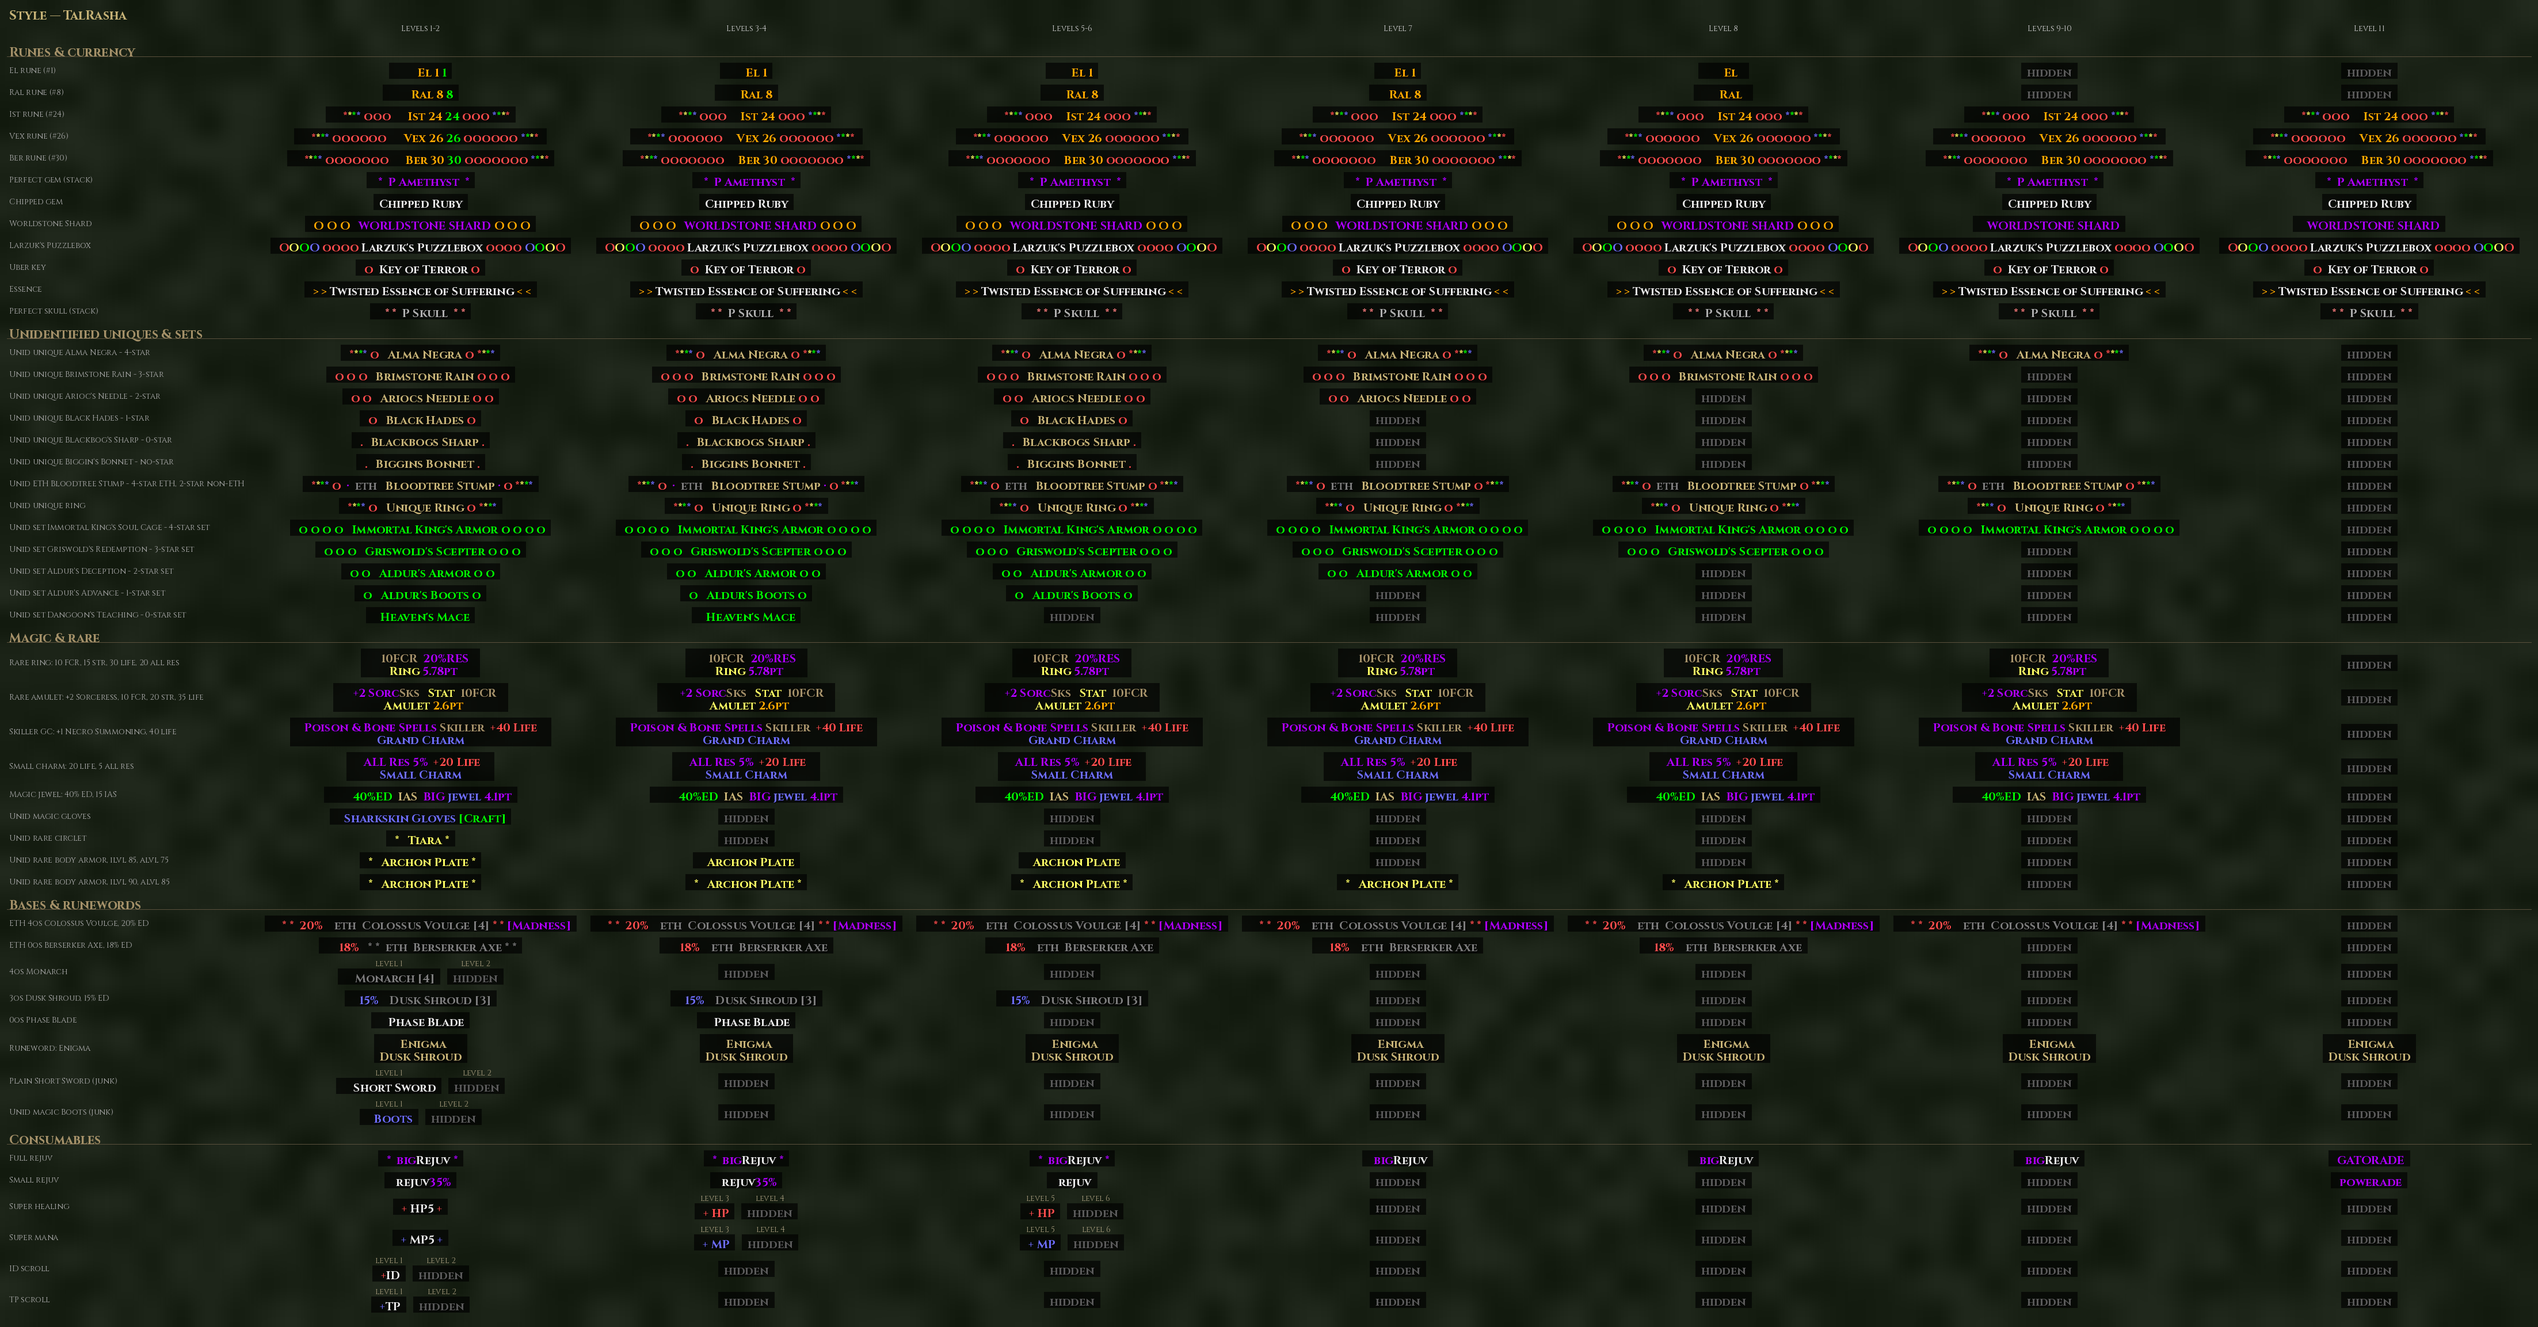
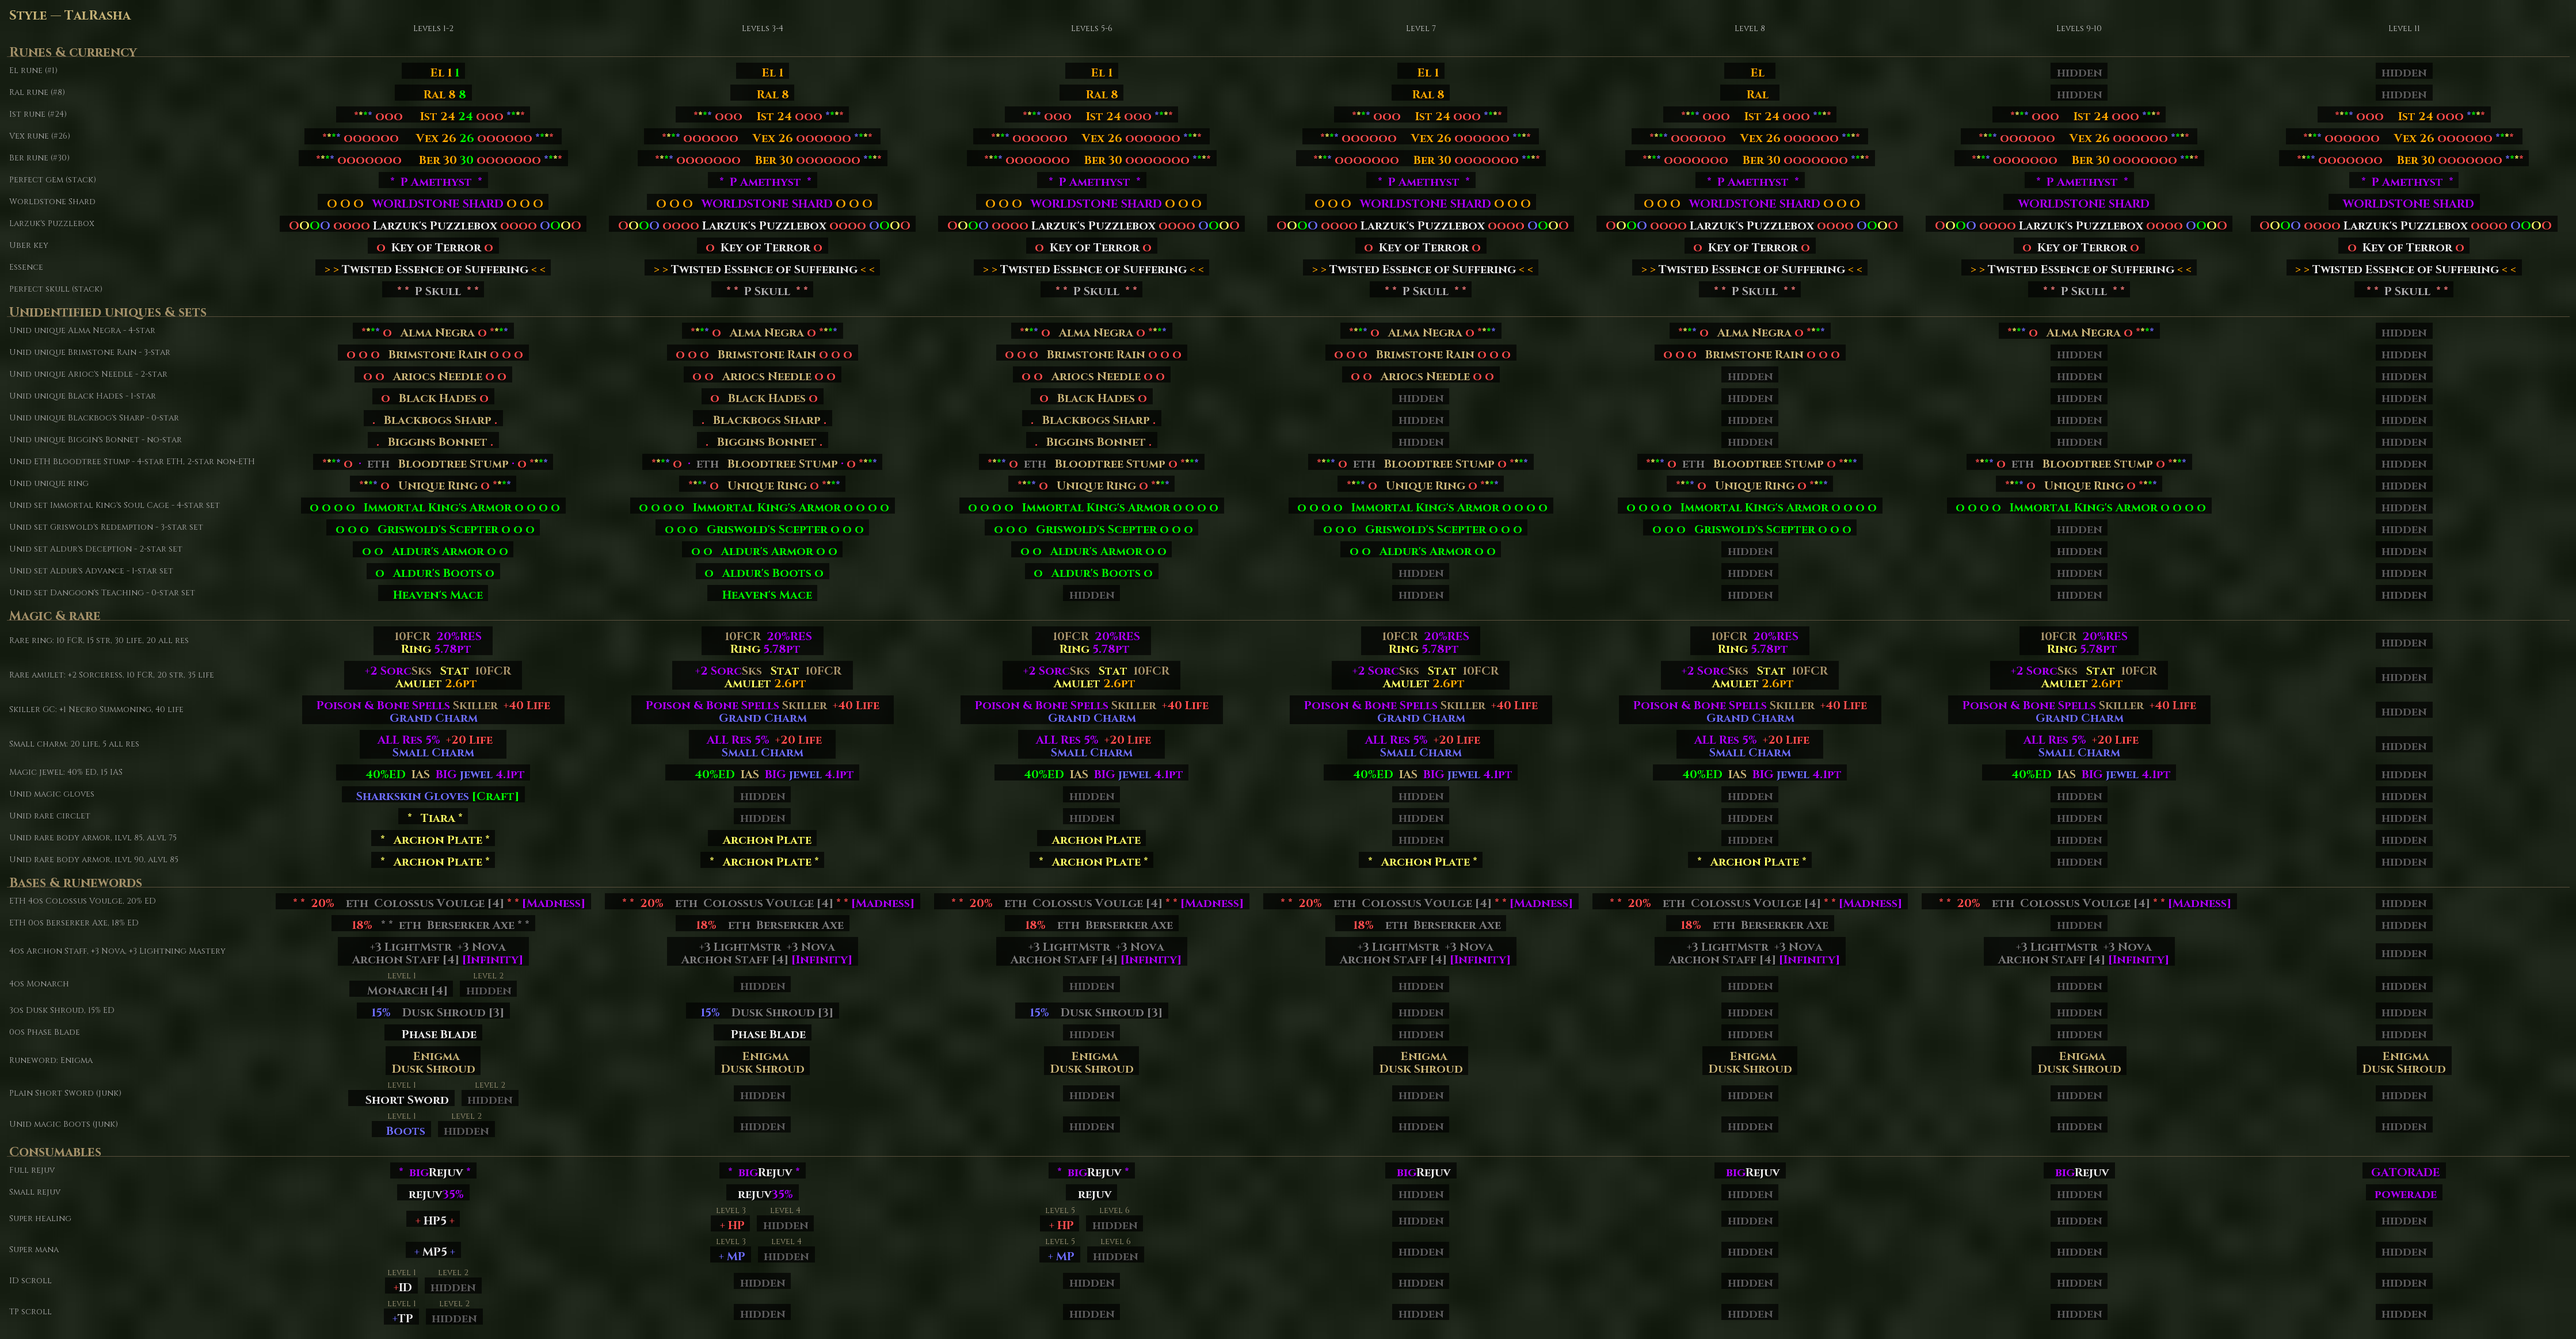
Styles page: add a Kassahi-family comparison; sample item tweaks
- render_readme_images.py renders examples/render/Kassahi_Styles.png:
  Phil777 | Kassahi | Kassahi Hyper at filter level 5, shown on
  filtergroups/HIIM_STYLES.md under "Kassahi styles".
- Samples: drop the chipped ruby; add a 4os Archon Staff with +3 Nova
  and +3 Lightning Mastery (Infinity base).

Claude-Session: https://claude.ai/code/session_01LHu8aBXB58wuLsSi44Dtuf

diff --git a/builderreadme/render_readme_images.py b/builderreadme/render_readme_images.py
@@ -4,7 +4,8 @@ One grid per general Hiim filter: the root Hiim filter plus the first (general) 
 group in PREVIEW_GROUPS. While a beta is building, the *_beta.filter is rendered since the
 release file is not rebuilt. Images go to examples/render/<release file stem>.png so README
 links stay stable. A style comparison (all four side by side at STYLES_LEVEL) goes to
-examples/render/Hiim_Styles.png for filtergroups/HIIM_STYLES.md.
+examples/render/Hiim_Styles.png for filtergroups/HIIM_STYLES.md, next to a Kassahi-family
+comparison (KASSAHI_STYLES) in examples/render/Kassahi_Styles.png.
 """
 import json
 import os
@@ -16,16 +17,25 @@ OUT_DIR = os.path.join(ROOT_DIR, "examples", "render")
 PREVIEW_GROUPS = ["hiimhyper", "hiimtalrasha", "hiimvanillaplus"]
 STYLES_LEVEL = 5
 STYLES_IMAGE = "examples/render/Hiim_Styles.png"
+# (filtergroups dir, release file, column title) for the Kassahi-family comparison
+KASSAHI_STYLES = [
+    ("phil777", "Kassahi_Phil777.filter", "Phil777"),
+    ("kassahi", "Kassahi.filter", "Kassahi"),
+    ("kassahi", "Kassahi_Hyper.filter", "Kassahi Hyper"),
+]
+KASSAHI_STYLES_IMAGE = "examples/render/Kassahi_Styles.png"
 
 sys.path.insert(0, SCRIPT_DIR)
 from filterrender.engine import Filter  # noqa: E402
 import render_examples  # noqa: E402
 
 
-def general_filter(defs_dir):
-    """(display_name, release file, path to render) for the first filter in defs_dir."""
+def general_filter(defs_dir, file_name=None):
+    """(display_name, release file, path to render) for file_name in defs_dir, by default the
+    first (general) filter listed there."""
     with open(os.path.join(defs_dir, "filter_definitions.json"), encoding="utf-8") as f:
-        entry = next(iter(json.load(f)["filter_info"].values()))
+        entries = list(json.load(f)["filter_info"].values())
+    entry = next(e for e in entries if file_name in (None, e["file_name"]))
     path = os.path.join(defs_dir, entry["file_name"])
     beta = entry.get("file_name_beta")
     if beta and os.path.exists(os.path.join(defs_dir, beta)):
@@ -55,6 +65,13 @@ def main():
     render_examples.render_styles(named, STYLES_LEVEL, os.path.join(ROOT_DIR, STYLES_IMAGE),
                                   f"Hiim styles at filter level {STYLES_LEVEL}")
     print(f"  wrote {STYLES_IMAGE}")
+    kassahi = []
+    for group, file_name, title in KASSAHI_STYLES:
+        _, _, path = general_filter(os.path.join(ROOT_DIR, "filtergroups", group), file_name)
+        kassahi.append((title, Filter(path)))
+    render_examples.render_styles(kassahi, STYLES_LEVEL, os.path.join(ROOT_DIR, KASSAHI_STYLES_IMAGE),
+                                  f"Kassahi styles at filter level {STYLES_LEVEL}")
+    print(f"  wrote {KASSAHI_STYLES_IMAGE}")
 
 
 if __name__ == "__main__":

diff --git a/builderreadme/filterrender/items.py b/builderreadme/filterrender/items.py
@@ -20,7 +20,6 @@ CATEGORIES = [
         _rune(26, "Vex"),
         _rune(30, "Ber"),
         {"code": "gpvs", "name": "Perfect Amethyst", "flags": ["NMAG"], "num": {"QTY": 1}, "legend": "Perfect gem (stack)"},
-        {"code": "gcr", "name": "Chipped Ruby", "flags": ["NMAG"], "legend": "Chipped gem"},
         {"code": "wss", "name": "Worldstone Shard", "flags": ["NMAG"], "legend": "Worldstone Shard"},
         {"code": "lbox", "name": "Larzuk's Puzzlebox", "flags": ["NMAG"], "legend": "Larzuk's Puzzlebox"},
         {"code": "pk1", "name": "Key of Terror", "flags": ["NMAG"], "legend": "Uber key"},
@@ -57,6 +56,8 @@ CATEGORIES = [
          "num": {"SOCK": 4, "EDAM": 20}, "legend": "ETH 4os Colossus Voulge, 20% ED"},
         {"code": "7wa", "name": "Berserker Axe", "flags": ["NMAG", "ETH", "WEAPON", "AXE", "ELT", "1H"],
          "num": {"SOCK": 0, "EDAM": 18}, "legend": "ETH 0os Berserker Axe, 18% ED"},
+        {"code": "6ws", "name": "Archon Staff", "flags": ["NMAG", "WEAPON", "STAFF", "ELT", "2H"],
+         "num": {"SOCK": 4, "SK48": 3, "SK63": 3}, "legend": "4os Archon Staff, +3 Nova, +3 Lightning Mastery"},
         {"code": "uit", "name": "Monarch", "flags": ["NMAG", "ARMOR", "SHIELD", "ELT"],
          "num": {"SOCK": 4}, "legend": "4os Monarch"},
         {"code": "uui", "name": "Dusk Shroud", "flags": ["NMAG", "ARMOR", "CHEST", "ELT"],

diff --git a/builderreadme/create_readme.py b/builderreadme/create_readme.py
@@ -119,6 +119,15 @@ def write_styles_page(version_str, previews):
         "",
         f"[![Hiim styles](../{renders.STYLES_IMAGE}?raw=true)](../{renders.STYLES_IMAGE}?raw=true)",
         "",
+        "## Kassahi styles",
+        "",
+        "The Kassahi-family filters (" + ", ".join(
+            f"[{title}]({group}/README.md)" for group, _, title in renders.KASSAHI_STYLES)
+        + f") at filter level {renders.STYLES_LEVEL}.",
+        "",
+        f"[![Kassahi styles](../{renders.KASSAHI_STYLES_IMAGE}?raw=true)]"
+        f"(../{renders.KASSAHI_STYLES_IMAGE}?raw=true)",
+        "",
         "## Full previews (all filter levels)",
         "",
     ]

diff --git a/filtergroups/HIIM_STYLES.md b/filtergroups/HIIM_STYLES.md
@@ -5,6 +5,12 @@ Every Hiim style at filter level 5, item for item. Each style ships the same rul
 
 [![Hiim styles](../examples/render/Hiim_Styles.png?raw=true)](../examples/render/Hiim_Styles.png?raw=true)
 
+## Kassahi styles
+
+The Kassahi-family filters ([Phil777](phil777/README.md), [Kassahi](kassahi/README.md), [Kassahi Hyper](kassahi/README.md)) at filter level 5.
+
+[![Kassahi styles](../examples/render/Kassahi_Styles.png?raw=true)](../examples/render/Kassahi_Styles.png?raw=true)
+
 ## Full previews (all filter levels)
 
 * [Hiim — Standard](../examples/render/Hiim.png?raw=true) — files in [repo root](../README.md)
